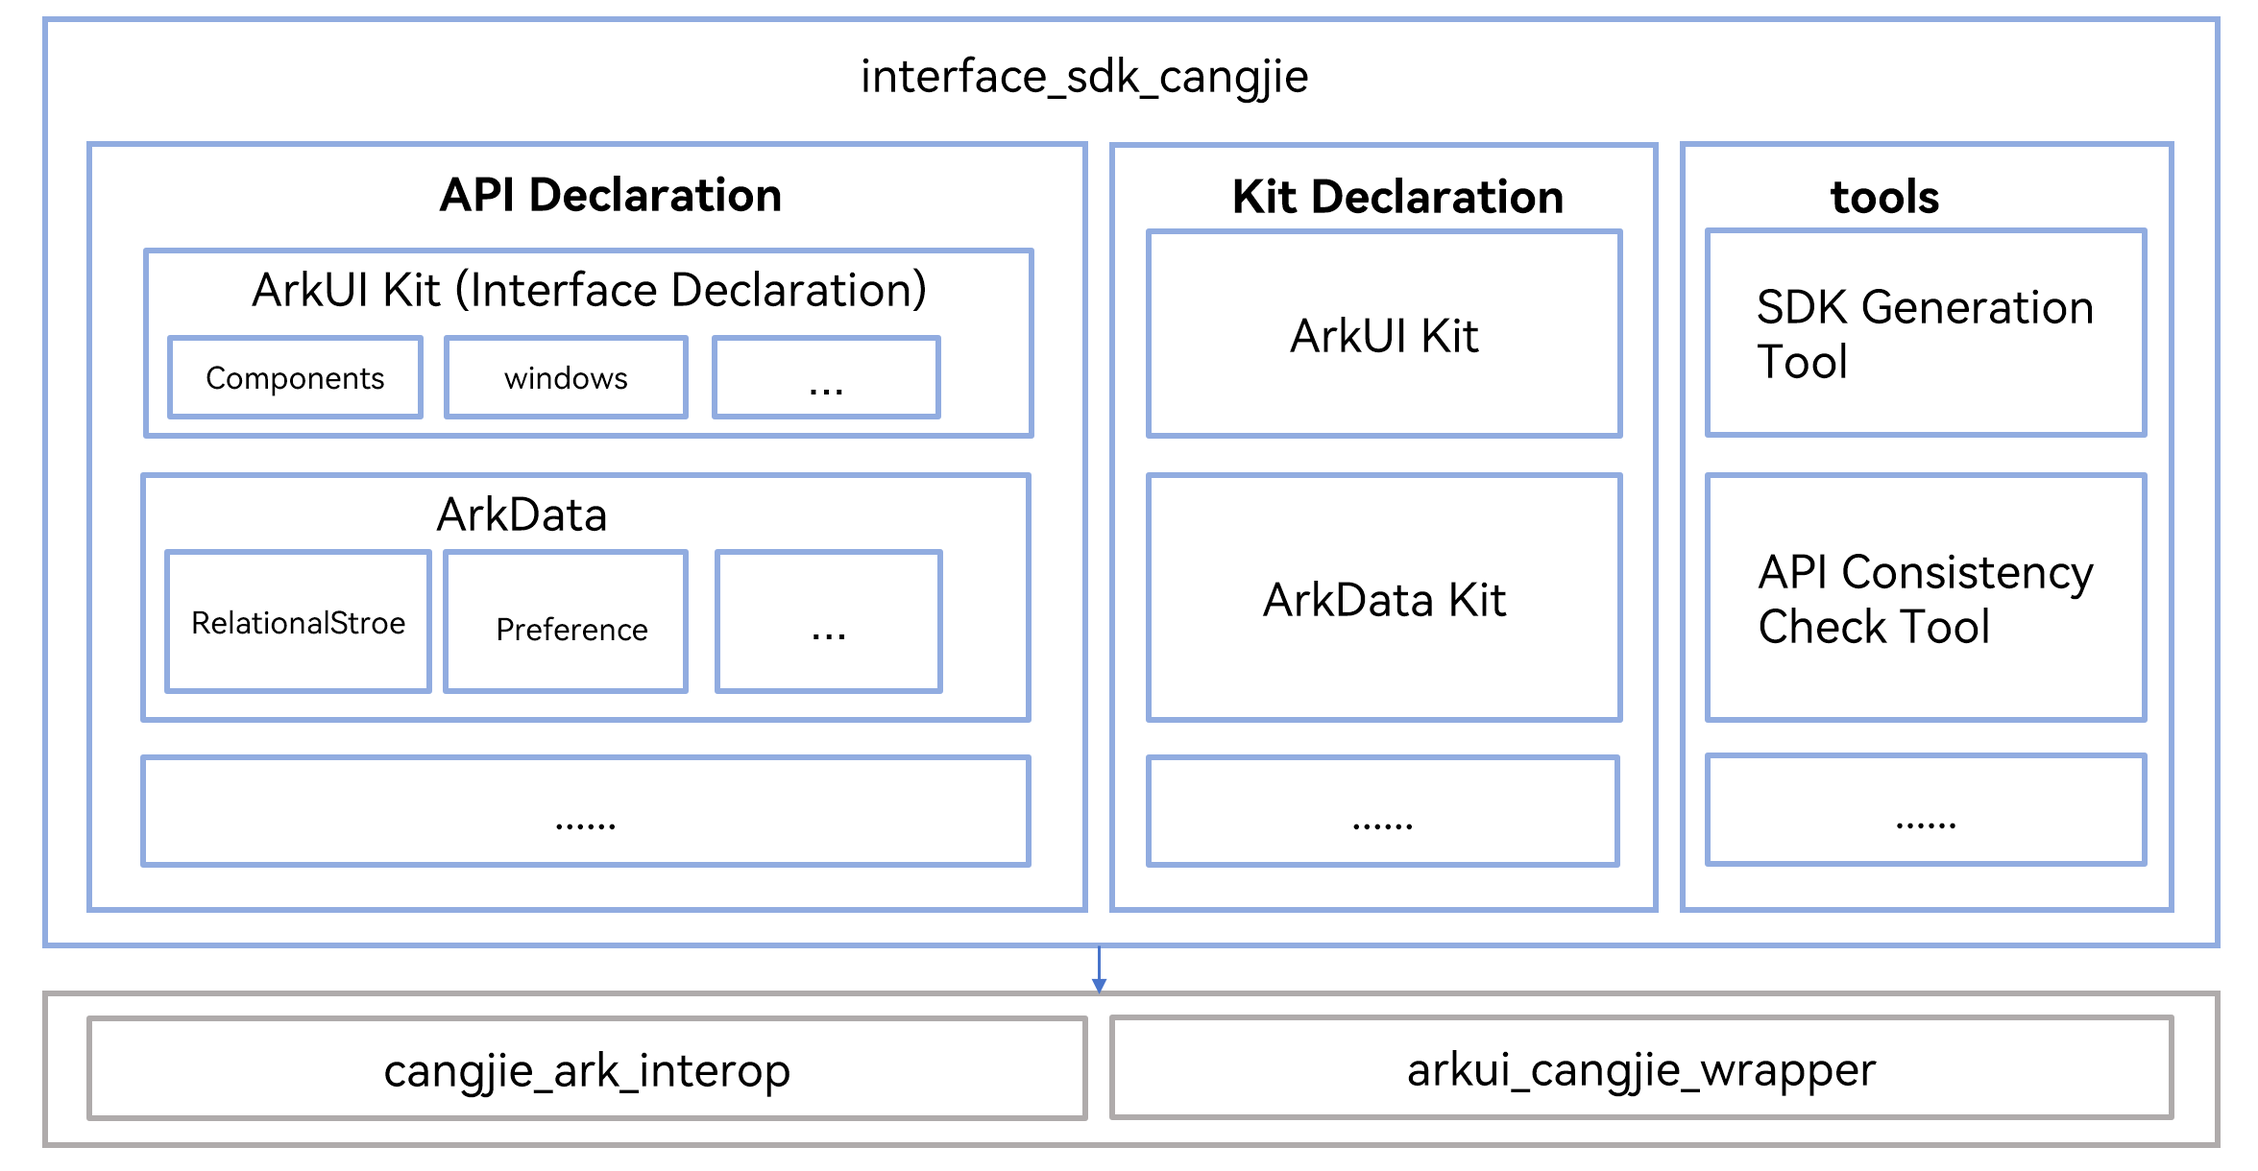
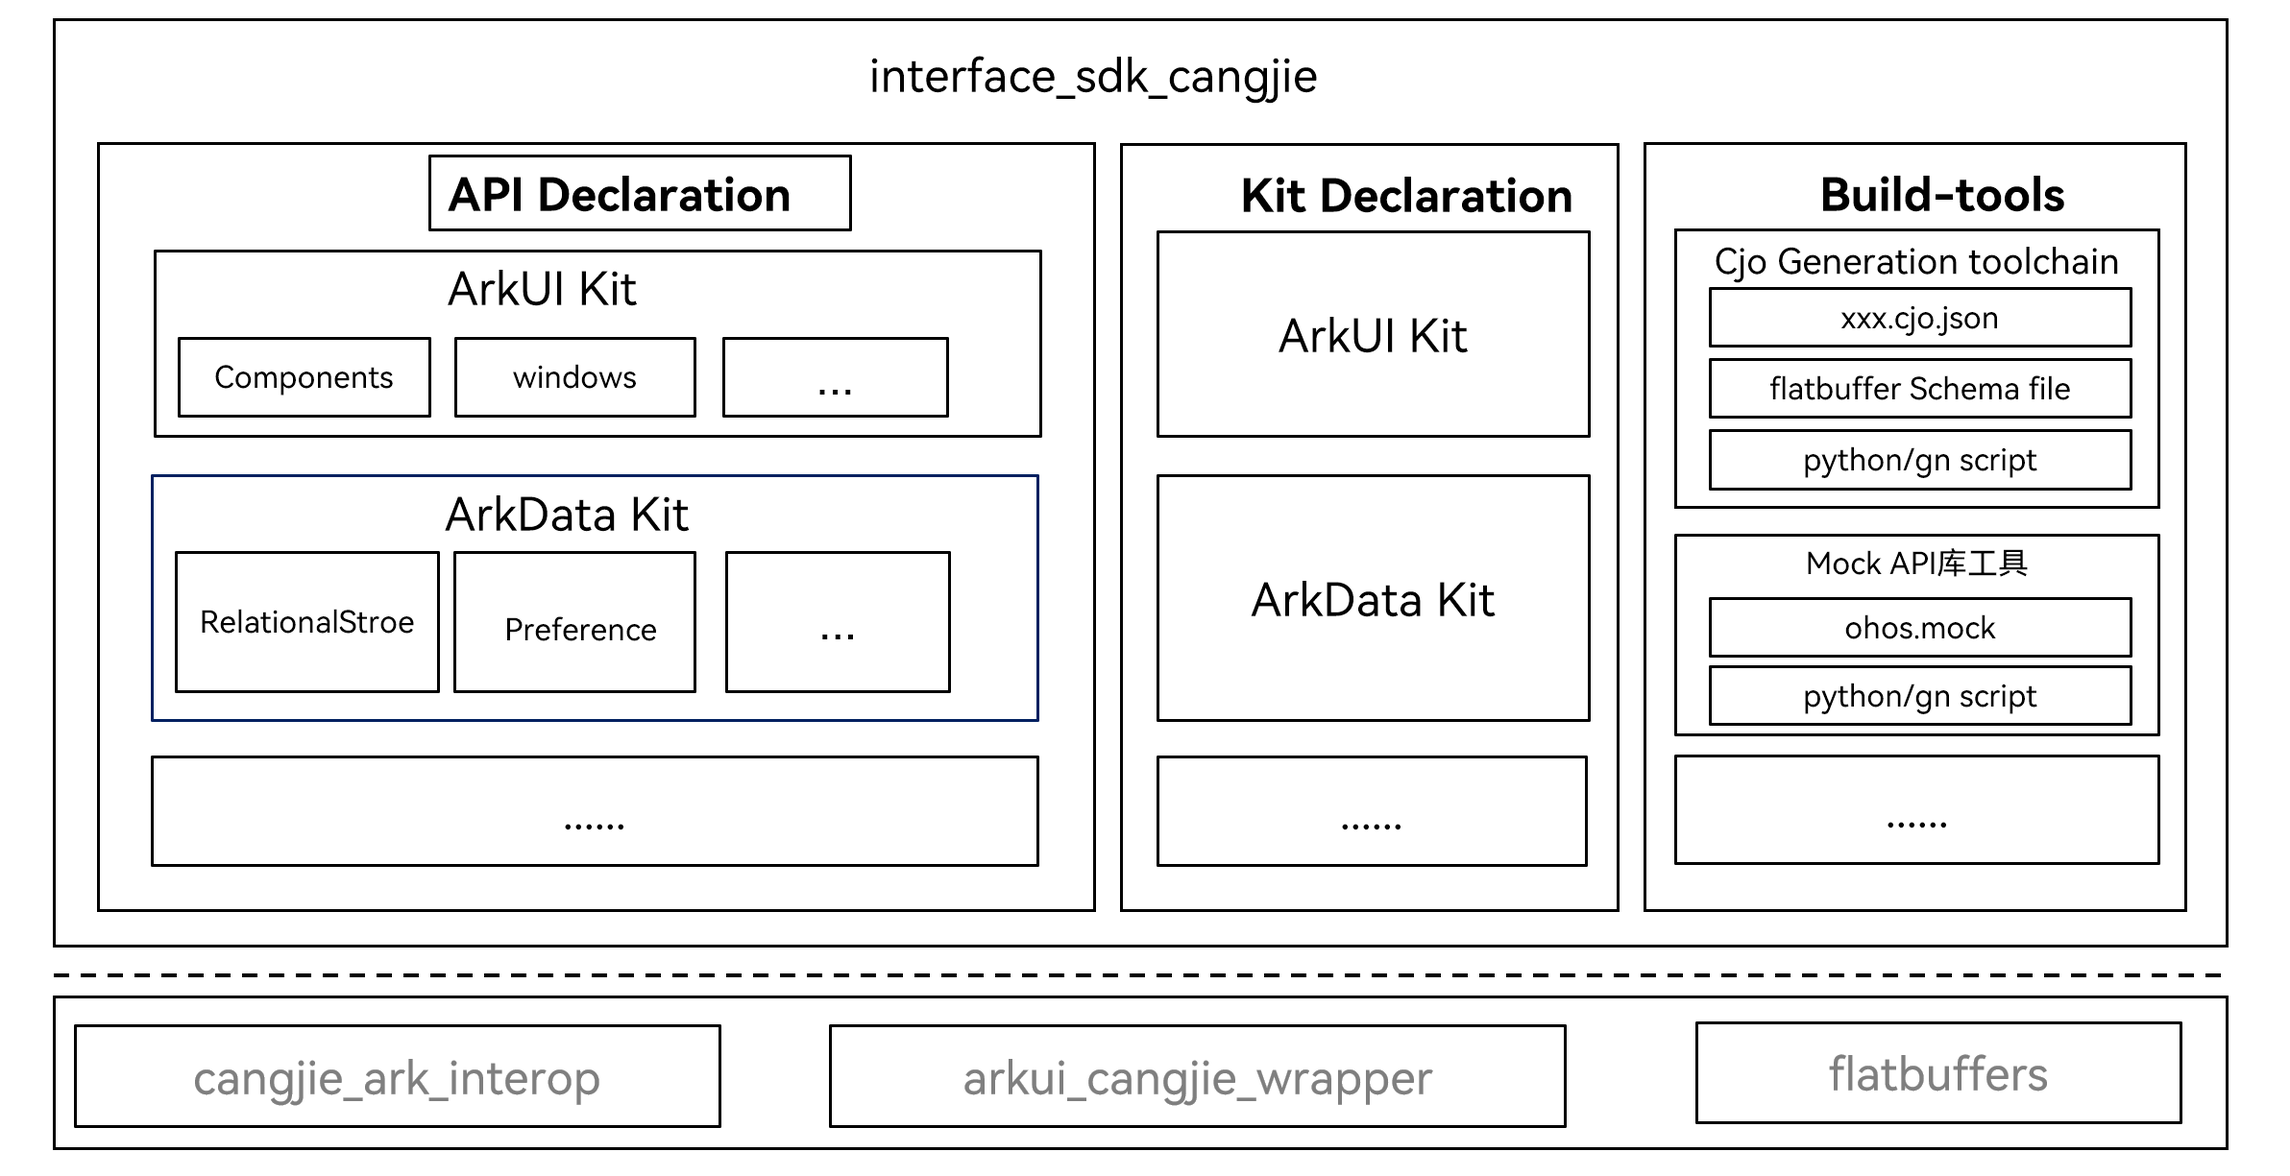
Fix readme

Changed region(s): [[0.0, 0.0, 0.9936, 0.9967], [0.5589, 0.2492, 0.6521, 0.3115]]

diff --git a/README.md b/README.md
@@ -12,32 +12,32 @@ Currently, the Cangjie API only supports standard devices.
 
 ![](figures/interface_sdk_cangjie_architecture.png)
 
-As shown in the architecture:
+As shown in the architecture diagram:
 
-- API Declaration: Cangjie API declaration files, mainly including ohos modules and Cangjie standard library related API declaration files.
+- API Declaration: Cangjie API declaration files (xxx.cj.d), mainly including ohos modules and Cangjie standard library related API declaration files, stored in directories according to Kit ownership.
 - Kit Declaration: Unified external declaration files of Cangjie kit modules.
-- build-tools: SDK building tools, such as tools for generating cjo, mock API library, etc.
-  - cjo generation tool: Serialize xxx.cjo.json files into cjo files
-  - mock API library tool: Build API mock dynamic libraries
+- build-tools: SDK building toolset, such as cjo generation tools, mock API library tools, etc.
+  - cjo generation toolchain: Including cjo deserialization files (xxx.cjo.json) of each Cangjie API module, FlatBuffers Schema files, and related build scripts. Mainly used during SDK building to quickly serialize xxx.cjo.json into cjo of each Cangjie API module through the flatc tool. For detailed introduction to Cangjie cjo and serialization/deserialization build process, please refer to [Cangjie cjo](https://gitcode.com/Cangjie/cangjie_docs/blob/08234c9e52cd55a6f1a2521c65f39745fa6d64a3/docs/dev-guide/source_en/Appendix/cjo_artifacts.md) and [Cangjie cjo build](build-tools/cjo/README.md).
+  - mock API library tool: Contains an empty implementation ohos.mock module and related build scripts. During SDK building, the ohos.mock dynamic library is used as a copy object to generate empty implementation dynamic libraries for each Cangjie API module.
 
 Dependencies introduction in the architecture diagram:
 
-- cangjie_ark_interop: The macro package in Cangjie SDK depends on the Cangjie-ArkTS interoperability interface for building interoperability macros
-- arkui_cangjie_wrapper: The macro package in Cangjie SDK depends on the ArkUI development framework Cangjie interface for building state management macros
+- cangjie_ark_interop: The macro package in Cangjie SDK depends on the Cangjie-ArkTS interoperability interface repository to build interoperability macros.
+- arkui_cangjie_wrapper: The macro package in Cangjie SDK depends on the ArkUI development framework Cangjie interface repository to build state management macros.
 
 Code directory structure:
-```bash
+```
 interface/sdk_cangjie
 ├── api
-│   └── xxxKit                   # The specific name of the Kit, such as Cangjie, BasicServiceKit, etc
-│       └── xxx.cj.d             # The specific interface files of each kit, with the storage path subject to the actual file list of the kit
-├── kits                         # The unified external declaration files of each kit
+│   └── xxxKit                   # Specific Kit name, such as Cangjie, BasicServiceKit, etc.
+│       └── xxx.cj.d             # Specific module interface files of each kit, storage path is subject to the actual file list of the kit
+├── kits                         # Unified external declaration files of each kit
 │   └── xxx.cj.d
 ├── build-tools                  # SDK building tools
 │   ├── cjo                      # Tools related to cjo building
 │   ├── lib
 │   │   └── mock                 # Scripts related to mock API library                      
-│   └── script                   # Tools related to SDK building
+│   └── script                   # Scripts related to SDK building
 ├── figures                      # README images
 ├── LICENSE
 └── bundle.json
@@ -48,22 +48,33 @@ interface/sdk_cangjie
 **Figure 2** Cangjie SDK delivery view
 ![](figures/interface_sdk_cangjie_delivery_view.png)
 
-As shown in the figure:
- - platform: Cangjie SDK currently supports windows/linux/mac-x64/mac-arm64 (ohos is not supported yet)
- - api lib package currently only supports ohos-related cross-compilation packages, previewer cross-compilation packages are not supported yet
-   - ohos-aarch64: Cross-compilation for ohos applications
-   - ohos-x86_64: Cross-compilation for ohos simulator applications
-   - previewer cross-compilation package (not supported yet)
- - api module package stores header files and lto bitcode files (following subsequent lto planning)
- - api macro package mainly stores Cangjie macro libraries
-   - ark-interop: Cangjie interoperability related macro library of the cangjie_ark_interop component
-   - arkui state manager: Cangjie state management related macro library of the arkui_cangjie_wrapper component
- - build-tools: Mainly stores Cangjie build toolchain, including Cangjie compiler, standard library, runtime library, third-party libraries, tools, etc.
+**ohos-sdk:**
+
+- OpenHarmony SDK currently consists of js, ets, native, toolchains, previewer, and cangjie components. This repository mainly involves the cangjie part building.
+
+**api:**
+
+ - lib package currently only supports ohos-related cross-compilation packages, storing empty implementation Cangjie API dynamic libraries generated by the mock API tool and Cangjie cjo serialized by the flatc tool.
+   - ohos-aarch64: For cross-building ohos-aarch64 applications.
+   - ohos-x86_64: For cross-building ohos-x86_64 applications, mainly provided for ohos x86_64 simulator use.
+ - api module package stores Cangjie API external declaration files and lto bitcode files.
+   - Cangjie API external declaration header files are copied from the api and kit directories of this repository and packaged into the Cangjie SDK.
+   - lto bitcode products are under planning and not supported yet.
+ - api macro package mainly stores Cangjie macro-related libraries. (For detailed introduction to Cangjie macros, please refer to [Cangjie Macro](https://gitcode.com/Cangjie/cangjie_docs/blob/08234c9e52cd55a6f1a2521c65f39745fa6d64a3/docs/dev-guide/source_en/Macro/macro_introduction.md))
+   - ark-interop: Cangjie interoperability macro library of the cangjie_ark_interop component, built by the gn scripts related to the interoperability macro library of the cangjie_ark_interop component.
+   - arkui state manager: Cangjie state management macro library of the arkui_cangjie_wrapper component, built by the gn scripts related to the state management macro library of the arkui_cangjie_wrapper component.
+
+**build-tools:**
+
+- Mainly stores Cangjie build toolchain, including Cangjie compiler, standard library, runtime library, tools, etc. The Cangjie build toolchain of the corresponding platform archived during the pre-download stage is copied and packaged into the Cangjie SDK.
+  - cangjie-compiler: Includes cjc, cjc-frontend, etc.
+  - cangjie-runtime: Mainly includes Cangjie runtime and Cangjie standard library dynamic libraries and Cangjie standard library API external declaration files.
+  - cangjie-tools: Mainly includes cjpm, cjdb, cjfmt, etc.
 
 Cangjie SDK package directory structure:
-```bash
+```
 cangjie
-├── api                                     # API library
+├── api                                     # API symbol library
 │   ├── lib                                 # Cangjie API dynamic libraries and corresponding cjo
 │   │   ├── linux_ohos_aarch64_cjnative     
 │   │   │   ├── kit
@@ -83,7 +94,7 @@ cangjie
 │   │   └── ohos
 │   │       ├── xxx.dll/xxx.so/xxx.dylib
 │   │       └── xxx.cjo
-│   └── modules                             # Cangjie API public declaration header files
+│   └── modules                             # Cangjie API external declaration header files
 │       └── linux_ohos_aarch64_cjnative
 │           ├── kit
 │           │   └── kit.xxx.cj.d
@@ -93,11 +104,16 @@ cangjie
 │   ├── bin                                 # Cangjie compiler binary directory
 │   ├── lib                                 # Cangjie standard library static library storage directory
 │   ├── modules                             # Cangjie standard library header files and cjo storage directory
-│   ├── runtime                             # Cangjie runtime dynamic library storage directory (including Cangjie runtime library and Cangjie standard library)
-│   ├── third_party                         # Third-party libraries and tools that Cangjie depends on
+│   ├── runtime                             # Cangjie runtime dynamic library storage directory (including Cangjie runtime library and Cangjie standard library)                                              
+│   ├── third_party                         # Third-party libraries and tools that Cangjie depends on (mingw and llvm tools)
 │   └── tools                               # Cangjie tools
 └── oh-uni-package.json
 ```
+
+## Constraints
+- The Cangjie package in ohos-sdk supports windows/linux/mac-x64/mac-arm64 platforms, but does not support the ohos platform yet.
+- Cangjie API previewer cross-compilation package is not supported yet.
+- The Cangjie API module does not support the lto function yet.
 
 ## Code Contribution
 
@@ -108,6 +124,8 @@ Developers are welcome to contribute code, documentation, etc. For specific cont
 [arkcompiler_cangjie_ark_interop](https://gitcode.com/openharmony-sig/arkcompiler_cangjie_ark_interop/)
 
 [arkui_arkui_cangjie_wrapper](https://gitcode.com/openharmony-sig/arkui_arkui_cangjie_wrapper/)
+
+[third_party_flatbuffers](https://gitcode.com/openharmony/third_party_flatbuffers/)
 
 [interface_sdk_c](https://gitcode.com/openharmony/interface_sdk_c/)
 

diff --git a/README_zh.md b/README_zh.md
@@ -1,4 +1,4 @@
-# 仓颉API公共仓
+# 仓颉API声明文件公共仓
 
 ## 简介
 
@@ -14,19 +14,19 @@
 
 如架构图所示：
 
-- API声明：仓颉API声明文件，主要是ohos模块和仓颉标准库相关API声明文件。
+- API声明：仓颉API声明文件(xxx.cj.d)，主要是ohos模块和仓颉标准库相关API声明文件，以Kit归属分目录存放。
 - Kit声明：仓颉kit模块对外统一声明文件。
-- build-tools：SDK构建工具，比如生成cjo工具，mock API库工具等
-  - cjo 生成工具：把xxx.cjo.json文件序列化成cjo文件
-  - mock API库工具：构建API mock 动态库
+- build-tools：SDK构建相关工具集，比如生成cjo工具，mock API库工具等。
+  - cjo生成工具链：包括仓颉API各个模块的cjo 反序列化文件(xxx.cjo.json)，以及FlatBuffers Schema文件和相关构建脚本；主要用于构建SDK时，通过flatc 工具快速将xxx.cjo.json序列化成仓颉API各个模块的cjo。有关仓颉cjo以及序列化和反序列化构建过程的详细介绍，请参考[仓颉cjo](https://gitcode.com/Cangjie/cangjie_docs/blob/08234c9e52cd55a6f1a2521c65f39745fa6d64a3/docs/dev-guide/source_zh_cn/Appendix/cjo_artifacts.md)以及[仓颉cjo构建](build-tools/cjo/README_zh.md)。
+  - mock API库工具：包含一个空实现的ohos.mock模块以及相关构建脚本，构建SDK时,将ohos.mock动态库作为复制对象，拷贝生成仓颉API各个模块的空实现动态库对象。
 
 架构图中依赖部件引入说明：
 
-- cangjie_ark_interop: 仓颉SDK中 marco包依赖仓颉-ArkTS互操作接口仓构建互操作宏
-- arkui_cangjie_wrapper: 仓颉SDK中 macro包依赖ArkUI开发框架仓颉接口仓构建状态管理宏
+- cangjie_ark_interop: 仓颉SDK中 marco包依赖仓颉-ArkTS互操作接口仓构建互操作宏。
+- arkui_cangjie_wrapper: 仓颉SDK中 macro包依赖ArkUI开发框架仓颉接口仓构建状态管理宏。
 
 代码目录结构：
-```bash
+```
 interface/sdk_cangjie
 ├── api
 │   └── xxxKit                   # Kit 具体名字，比如Cangjie, BasicServiceKit等
@@ -48,20 +48,31 @@ interface/sdk_cangjie
 **图 2** 仓颉sdk交付视图
 ![](figures/interface_sdk_cangjie_delivery_view.png)
 
-如图所示：
- - platform: 仓颉sdk目前支持windows/linux/mac-x64/mac-arm64(暂不支持ohos)
- - api lib包中 目前仅支持ohos 相关的交叉构建包，暂不支持previewer交叉构建包
-   - ohos-aarch64: 交叉构建ohos应用
-   - ohos-x86_64: 交叉构建ohos模拟器应用
-   - previewer交叉构建包（暂不支持）
- - api moudle包存放头文件以及lto的bitcode文件(随后续lto规划)
- - api macro包主要存放仓颉宏相关库
-   - ark-interop: cangjie_ark_interop部件的仓颉互操作相关宏库
-   - arkui state manager: arkui_cangjie_wrapper部件的仓颉状态管理相关宏库
- - build-tools：主要存放仓颉构建工具链，包括仓颉编译器、标准库、运行时库、三方库、工具等。
+**ohos-sdk:** 
+
+- Openharmony SDK目前由js,ets,native,toolchains, previewer以及cangjie这几个部分组成，本仓主要涉及cangjie部分构建。
+
+**api:**
+
+ - lib包中 目前仅支持ohos 相关的交叉构建包，存放由mock API工具生成的空实现的仓颉API动态库以及flatc工具序列化生成的仓颉cjo。
+   - ohos-aarch64: 用于交叉构建ohos-aarch64应用。
+   - ohos-x86_64: 用于交叉构建ohos-x86_64应用,主要提供给ohos x86_64模拟器使用。
+ - api moudle包存放仓颉API对外声明文件以及lto的bitcode文件。
+   - 仓颉API对外声明文件从本仓api和kit目录拷贝并打包进仓颉SDK中。
+   - lto bitcode产物正在规划中，暂不支持。
+ - api macro包主要存放仓颉宏相关库。（仓颉宏的详细介绍，请参考[仓颉宏](https://gitcode.com/Cangjie/cangjie_docs/blob/08234c9e52cd55a6f1a2521c65f39745fa6d64a3/docs/dev-guide/source_zh_cn/Macro/macro_introduction.md)）
+   - ark-interop: cangjie_ark_interop部件的仓颉互操作宏库，由cangjie_ark_interop部件互操作宏库相关gn脚本构建产生。
+   - arkui state manager: arkui_cangjie_wrapper部件的仓颉状态管理宏库，由arkui_cangjie_wrapper部仓颉件状态管理宏库相关gn脚本构建产生。
+
+**build-tools：**
+
+- 主要存放仓颉构建工具链，包括仓颉编译器、标准库、运行时库、工具等，从预下载阶段归档的对应平台的仓颉构建工具链拷贝并打包到仓颉SDK中。
+  - cangjie-compiler：包括cjc，cjc-frontend等。
+  - cangjie-runtime：主要包括仓颉runtime和仓颉标准库动态库以及仓颉标准库API对外声明文件。
+  - cangjie-tools: 主要包括cjpm, cjdb, cjfmt等。
 
 仓颉SDK包目录结构：
-```bash
+```
 cangjie
 ├── api                                     # API 符号库
 │   ├── lib                                 # 仓颉API动态库及其对于cjo
@@ -83,7 +94,7 @@ cangjie
 │   │   └── ohos
 │   │       ├── xxx.dll/xxx.so/xxx.dylib
 │   │       └── xxx.cjo
-│   └── modules                             # 仓颉API对外声明头文件
+│   └── modules                             # 仓颉API对外声明文件
 │       └── linux_ohos_aarch64_cjnative
 │           ├── kit
 │           │   └── kit.xxx.cj.d
@@ -94,10 +105,15 @@ cangjie
 │   ├── lib                                 # 仓颉标准库静态库存放目录
 │   ├── modules                             # 仓颉标准库头文件以及cjo存放目录
 │   ├── runtime                             # 仓颉运行时动态库存放目录（包括仓颉运行时库和仓颉标准库）                                              
-│   ├── third_party                         # 仓颉依赖的三方库以及三方工具
+│   ├── third_party                         # 仓颉依赖的三方库以及三方工具（mingw 和llvm工具）
 │   └── tools                               # 仓颉工具
 └── oh-uni-package.json
 ```
+
+## 约束
+- ohos-sdk中仓颉包支持windows/linux/mac-x64/mac-arm64平台，暂不支持ohos平台。
+- 暂不支持仓颉API previewer 交叉构建包。
+- 仓颉API模块暂不支持lto功能。
 
 ## 参与贡献
 
@@ -108,6 +124,8 @@ cangjie
 [arkcompiler_cangjie_ark_interop](https://gitcode.com/openharmony-sig/arkcompiler_cangjie_ark_interop/)
 
 [arkui_arkui_cangjie_wrapper](https://gitcode.com/openharmony-sig/arkui_arkui_cangjie_wrapper/)
+
+[third_party_flatbuffers](https://gitcode.com/openharmony/third_party_flatbuffers/)
 
 [interface_sdk_c](https://gitcode.com/openharmony/interface_sdk_c/)
 

diff --git a/build-tools/cjo/README_zh.md b/build-tools/cjo/README_zh.md
@@ -1,0 +1,18 @@
+# 仓颉CJO序列化和反序列化指导
+
+## 准备工作
+**Flatbuffers编译器`flatc`**：可以从Flatbuffers的[GitHub releases页面](https://github.com/google/flatbuffers/releases)下载适合你操作系统的`flatc`可执行文件，也可以直接从ohos预下载目录`prebuilts/cangjie_sdk/build-tools/flatc`获取。
+
+## JSON转换为cjo
+使用`flatc`命令将JSON文件转换为Flatbuffer二进制文件。在命令行中执行以下命令：
+```bash
+flatc -b ModuleFormat.fbs xxx.cjo.json -o xxx.cjo
+```
+该命令会根据`ModuleFormat.fbs`文件的定义，将`xxx.cjo.json`文件中的数据序列化为Flatbuffer二进制格式cjo文件，并生成一个`xxx.cjo`文件。
+
+## cjo转换为JSON
+使用`flatc`命令将Flatbuffer二进制文件转换为JSON文件。在命令行中执行以下命令：
+```bash
+flatc --raw-binary -t ModuleFormat.fbs -- xxx.cjo
+```
+该命令会根据`ModuleFormat.fbs`文件的定义，将`xxx.cjo`文件中的Flatbuffer二进制数据反序列化为JSON格式，并生成一个`xxx.cjo.json`文件。
